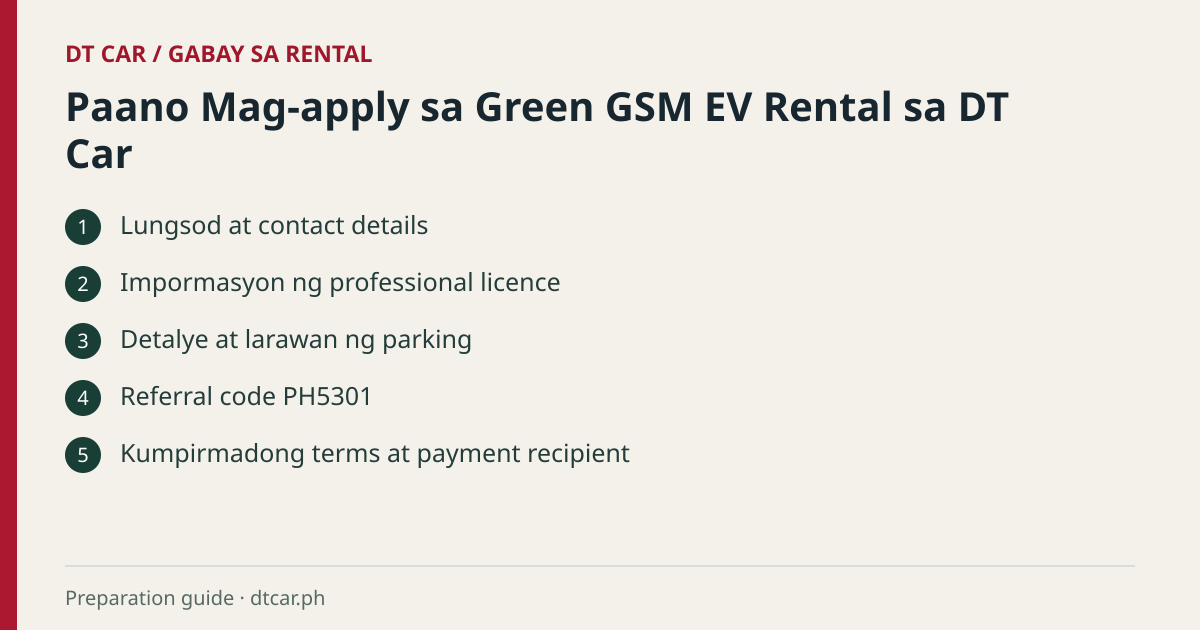
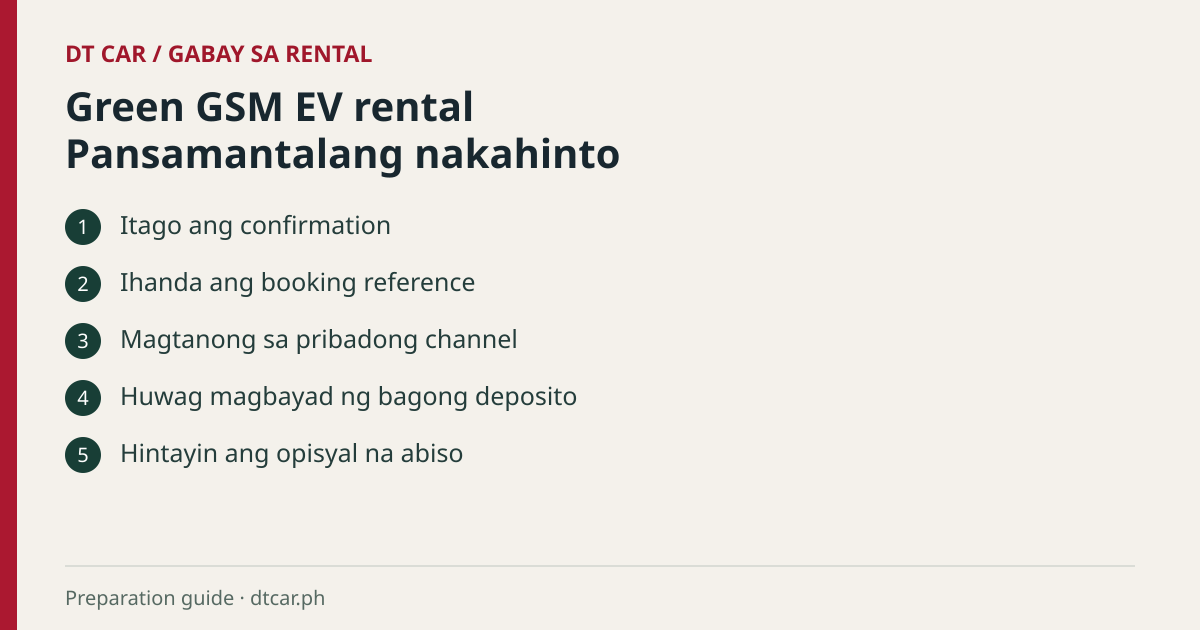
Pause GSM rental registration and deposits, and surface used-car and fleet enquiries

diff --git a/app/data/services.ts b/app/data/services.ts
@@ -22,7 +22,6 @@ export type Service = {
 
 const messenger = "https://m.me/61550266324189";
 const priceList = { label: "VinFast Philippines price list", href: "https://vinfastauto.ph/en/price-list" };
-export const rentalRegistration = "https://platform.greengsm.ph/dat_coc_xe?model=HerioGreen&rental=true";
 
 export const services: Service[] = [
   {
@@ -221,25 +220,23 @@ export const services: Service[] = [
   },
   {
     slug: "green-gsm-rental-pasada",
-    name: "Green GSM EV rental for drivers",
-    title: "Green GSM Rental Pasada in the Philippines | DT Car",
-    summary: "Use Green GSM’s Philippine rental platform to register for a Herio Green EV through DT Car. Enter referral code PH5301 with your application. You can ask DT Car about parking, documents and available units before booking.",
+    name: "Green GSM rental programme status",
+    title: "Green GSM Rental Pasada Is Paused | DT Car Philippines",
+    summary: "Updated 25 November 2026. Green GSM has paused the rental programme until further notice. DT Car is not taking new rental registrations or deposits. A reopening date has not been confirmed.",
     image: "/images/web/limo-green.webp",
-    action: { label: "Open Herio Green rental registration", href: rentalRegistration },
-    filipino: "Gustong umupa ng EV para sa pasada? Ihanda ang detalye ng parking at ilagay ang referral code na PH5301 sa rental form ng Green GSM.",
-    checklistTitle: "Before opening the rental application",
-    checklist: ["Have your contact details, city and professional driving licence information ready.", "Prepare a clear photo of the parking space you intend to use.", "Ask for the current rental schedule, charging arrangements, booking amount and refund terms for the model you select."],
+    action: { label: "Ask about an existing rental enquiry", href: messenger },
+    filipino: "Pansamantalang nakahinto ang Green GSM rental. Huwag magsumite ng bagong aplikasyon o magbayad ng deposito. Wala pang kumpirmadong petsa ng pagbubukas.",
+    checklistTitle: "If you already applied or paid",
+    checklist: ["Keep your original booking confirmation and receipt.", "Contact the provider named on your confirmation about your individual booking.", "Use a private channel. Keep ID numbers and payment details out of public comments."],
     steps: [
-      { title: "Open the official rental form", text: "The registration button opens the Herio Green rental route on platform.greengsm.ph. Check the vehicle and rental option shown before entering your details." },
-      { title: "Add the DT Car referral", text: "Enter PH5301 in the referral field so the application identifies the DT Car referral. Review your contact details before continuing." },
-      { title: "Review the booking terms", text: "Check the amount and conditions displayed by Green GSM before paying through its platform. Save the reference and use it when asking about assessment or vehicle release." },
+      { title: "Find your reference", text: "Use the reference on your original confirmation so the team can identify the enquiry." },
+      { title: "Check with the team handling the booking", text: "Ask about your specific status and any applicable terms. Keep a copy of the reply." },
     ],
     questions: [
-      { question: "How do I check Limo Green rental options?", answer: "Open Green GSM’s Limo Green rental page below or tell DT Car which model you prefer. Availability and quoted terms depend on the selected vehicle." },
-      {question:"How should I compare daily rental and deposit payments?",answer:"Ask for two separate amounts in writing: the daily rental and any contribution towards a deposit. Multiply each by the number of payable days in the current contract. Ask what happens on days the vehicle cannot operate, who pays for charging and what happens to the accumulated deposit if you leave early. Keep the payment schedule with your booking confirmation."},
-      { question: "Where can I ask about my application?", answer: "Message DT Car with the model and booking reference. For payment status or release dates, use the confirmation issued by Green GSM." },
+      { question: "Can I reserve a rental vehicle now?", answer: "New rental registrations and deposits are paused. Wait for an official reopening announcement." },
+      { question: "Does this update cover taxi driver recruitment?", answer: "This update concerns the rental programme. The driver recruitment page has a separate contact for recruitment enquiries." },
     ],
-    references: [{label:"TNVS Car Rental programme updates",href:"https://www.facebook.com/profile.php?id=61595874147900"}, { label: "Green GSM Limo Green rental options", href: "https://platform.greengsm.ph/limo_green?order-type=rent" }, { label: "Talk with the DT Car rental team", href: messenger }],
+    references: [{ label: "DT Car rental programme updates", href: "https://www.facebook.com/profile.php?id=61595874147900" }],
     stories: [],
     related: "green-gsm-driver-application",
   },

diff --git a/app/components/Home.tsx b/app/components/Home.tsx
@@ -28,9 +28,9 @@ export default function Home({ stories }: { stories: StoryLink[] }) {
       <section className="intro section" id="about"><div><p className="eyebrow">WHO WE ARE</p><h2>A local team with the scale to execute.</h2></div><div><p>DT Car helps automotive and mobility brands move from strategy to real-world operations — from vehicle sales and aftersales to nationwide fleet deployment and charging infrastructure.</p><Link prefetch={false} className="inlineLink" href="/about">About DT Car <span>→</span></Link></div></section>
       <section className="stats"><div><strong>12</strong><span>Service workshops</span></div><div><strong>10,000+</strong><span>GSM vehicles delivered</span></div><div><strong>100+</strong><span>V-Green sites sourced</span></div><div><strong>4</strong><span>Charging stations built</span></div></section>
       <section className="section business" id="business"><div className="sectionHead"><div><p className="eyebrow">WHAT WE DO</p><h2>Vehicle, fleet and travel services</h2></div><p>Find the team handling your vehicle, driver application or project.</p></div><div className="businessGrid">
-        <article className="businessCard large used"><div className="cardShade"/><div className="cardContent"><span>01</span><h3>New and used cars</h3><p>VinFast vehicles, used-car sourcing, inspection, buying and selling — connected to our specialist social channels.</p><div className="cardServiceLinks"><Link prefetch={false} href="/business/sell-my-car-manila/">Sell my car →</Link><Link prefetch={false} href="/business/vinfast-test-drive/">VinFast test drives →</Link></div></div></article>
+        <article className="businessCard large used"><div className="cardShade"/><div className="cardContent"><span>01</span><h3>New and used cars</h3><p>VinFast vehicles, used-car sourcing, inspection, buying and selling — connected to our specialist social channels.</p><div className="cardServiceLinks"><Link prefetch={false} href="/business/used-cars-manila/">Buy a used car →</Link><Link prefetch={false} href="/business/sell-my-car-manila/">Sell my car →</Link><Link prefetch={false} href="/business/vinfast-test-drive/">VinFast test drives →</Link></div></div></article>
         <article className="businessCard project"><div className="cardShade"/><div className="cardContent"><span>02</span><h3>Project Execution</h3><p>Fleet technology rollout, installation and field operations at scale.</p><Link prefetch={false} href="/projects">View projects →</Link></div></article>
-        <article className="businessCard fleet"><div className="cardShade"/><div className="cardContent"><span>03</span><h3>Fleet Solutions</h3><p>Vehicle supply, rental, driver recruitment and operational support.</p><div className="cardServiceLinks"><Link prefetch={false} href="/business/green-gsm-driver-application/">Apply as a driver →</Link><Link prefetch={false} href="/business/green-gsm-rental-pasada/">Rent an EV →</Link></div></div></article>
+        <article className="businessCard fleet"><div className="cardShade"/><div className="cardContent"><span>03</span><h3>Fleet Solutions</h3><p>Vehicle supply, rental, driver recruitment and operational support.</p><div className="cardServiceLinks"><Link prefetch={false} href="/business/electric-fleet-quotation-philippines/">Request a fleet quote →</Link><Link prefetch={false} href="/business/green-gsm-driver-application/">Driver enquiries →</Link><Link prefetch={false} href="/business/green-gsm-rental-pasada/">Rental programme status →</Link></div></div></article>
         <article className="businessCard travel" id="travel"><div className="cardShade"/><div className="cardContent"><span>04</span><h3>Philippines Travel</h3><p>Curated tours and local experiences for Vietnamese, Chinese and international travelers.</p><Link prefetch={false} href="/travel">Visit travel page →</Link></div></article>
       </div></section>
       <section className="projects section" id="projects"><div className="sectionHead"><div><p className="eyebrow">SELECTED PROJECTS</p><h2>Partnerships that move markets.</h2></div><p>From agreements to deployment, our teams turn plans into measurable operations.</p></div><div className="projectGrid">{projects.map((item) => <article key={item.tag} className="projectCard"><div className="projectImage" style={{backgroundImage:`url('${item.image}')`}}/><div className="projectBody"><span>{item.tag}</span><h3>{item.title}</h3><p>{item.text}</p><a href={`/projects/#${item.tag.toLowerCase().replace(" ", "-")}`}>Explore the {item.tag} project →</a></div></article>)}</div></section>

diff --git a/app/data/guides.ts b/app/data/guides.ts
@@ -357,52 +357,34 @@ const content: Guide[] = [
   },
   {
     "slug": "green-gsm-rental-guide-filipino",
-    "title": "Paano Mag-apply sa Green GSM EV Rental sa DT Car",
-    "description": "Gabay sa rental enquiry, opisyal na registration form at referral code PH5301 para sa mga interesadong driver.",
+    "title": "Green GSM EV rental: pansamantalang nakahinto",
+    "description": "Alamin ang status ng Green GSM rental at kung saan magtatanong tungkol sa dati nang booking.",
     "category": "GABAY SA RENTAL",
     "service": "green-gsm-rental-pasada",
-    "summary": "Para magtanong tungkol sa Green GSM EV rental, ihanda ang lungsod mo, impormasyon ng lisensya at detalye ng parking. Buksan ang opisyal na rental form at ilagay ang referral code PH5301 para matukoy ang referral mula sa DT Car.",
+    "summary": "Simula sa update ng 25 Nobyembre 2026, pansamantalang nakahinto ang Green GSM rental hanggang sa susunod na abiso. Walang bagong registration o deposito. Wala pang kumpirmadong petsa ng muling pagbubukas.",
     "sections": [
       {
-        "heading": "Rental ba o driver recruitment ang kailangan mo?",
+        "heading": "Kung balak mo pa lang mag-apply",
         "paragraphs": [
-          "Magkaiba ang aplikasyon para sa rental at aplikasyon para maging driver. Sabihin muna sa team kung alin ang gusto mong alamin para tama ang form at paliwanag na matatanggap mo.",
-          "Kung rental ang pakay, itanong ang sasakyan, kasalukuyang bayad at mga responsibilidad sa kontrata. Kung driver recruitment naman, gamitin ang hiwalay na pahina ng DT Car para sa aplikasyon ng driver."
+          "Hintayin ang opisyal na anunsyo bago magparehistro o magbayad. Magkaibang programa ang EV rental at ang pag-aaplay bilang taxi driver."
         ]
       },
       {
-        "heading": "Ihanda ang detalye bago mag-register",
+        "heading": "Kung may dati ka nang booking",
         "paragraphs": [
-          "Ihanda ang pangalan at contact details na ginagamit mo sa aplikasyon. Isama ang lungsod, impormasyon ng professional driver’s licence at malinaw na larawan ng parking space na balak gamitin.",
-          "Kumpirmahin sa team kung may kailangan pang dokumento para sa napiling unit. Huwag mag-post ng ID o lisensya sa public comments. Gamitin lamang ang angkop na private channel o opisyal na form para sa personal na dokumento."
-        ]
-      },
-      {
-        "heading": "Gamitin ang opisyal na form at referral code",
-        "paragraphs": [
-          "Ang button sa rental page ng DT Car ay papunta sa platform.greengsm.ph para sa Herio Green rental. Suriin ang model at rental option na nakikita sa form bago magpatuloy. Maaaring magbago ang itsura ng platform.",
-          "Ilagay ang PH5301 sa referral field at suriin ang contact details bago isumite. Kung hindi makita ang field o iba ang sasakyang ipinapakita, itanong muna sa DT Car. Ang referral code ay tumutukoy sa referral; hindi ito garantiya ng approval o petsa ng release."
-        ]
-      },
-      {
-        "heading": "Basahin ang bayarin at susunod na hakbang",
-        "paragraphs": [
-          "Bago magbayad, alamin ang booking amount, rental schedule, charging arrangement, refund conditions at inaasahang proseso ng assessment. Kumpirmahin ang opisyal na tatanggap ng bayad sa platform.",
-          "Itago ang confirmation at resibo. Mag-follow up gamit ang application reference sa tamang team. Ang pagsumite ng form o pagbabayad ng booking amount ay hindi awtomatikong kumpirmasyon na may unit nang nakalaan o handa nang kunin."
+          "Itago ang confirmation, resibo at booking reference. Sa pribadong channel, magtanong sa team na nakalagay sa confirmation tungkol sa status at mga tuntunin ng iyong booking. Huwag ilagay ang ID o detalye ng bayad sa public comments."
         ]
       }
     ],
     "checklist": [
-      "Lungsod at contact details.",
-      "Impormasyon ng professional licence.",
-      "Detalye at larawan ng parking.",
-      "Referral code PH5301.",
-      "Kumpirmadong terms at payment recipient."
+      "Itago ang confirmation at resibo.",
+      "Ihanda ang reference ng dati mong booking.",
+      "Hintayin ang opisyal na abiso."
     ],
     "references": [
       {
-        "label": "Official Green GSM rental registration",
-        "href": "https://platform.greengsm.ph/dat_coc_xe?model=HerioGreen&rental=true"
+        "label": "Status ng Green GSM rental sa DT Car",
+        "href": "/business/green-gsm-rental-pasada/"
       }
     ],
     "lang": "fil-PH",

diff --git a/app/data/search-titles.ts b/app/data/search-titles.ts
@@ -32,7 +32,7 @@ export const guideSearchTitles:Record<string,string>={
 export const serviceSearchDescriptions:Record<string,string>={
 'fleet-installation':'Plan fleet dashcam, SIM, meter and sticker installation with DT Car. Send vehicle counts, model mix, approved scope and location for a project review.',
 'green-gsm-driver-application':'Ask DT Car about Green GSM driver applications in the Philippines. Prepare your professional licence and discuss the next recruitment steps.',
-'green-gsm-rental-pasada':'Explore Green GSM EV rental enquiries with DT Car. Review the official registration process, current terms and referral code PH5301.',
+'green-gsm-rental-pasada':'Green GSM rental is paused until further notice. See the status for new registrations and deposits, and where to follow up on an existing booking.',
 'sell-my-car-manila':'Sell your car in Metro Manila with DT Car. Send the model, year, mileage, photos and location for an initial review and inspection appointment.',
 'vgreen-charging-site-proposal':'Propose a Philippine property for V-Green screening through DT Car. Prepare location, access, parking and electrical-supply information.',
 'vinfast-test-drive':'Compare VinFast VF 3 and VF 5 Plus starting prices in the Philippines. Ask DT Car for a written quotation and test-drive appointment.',
